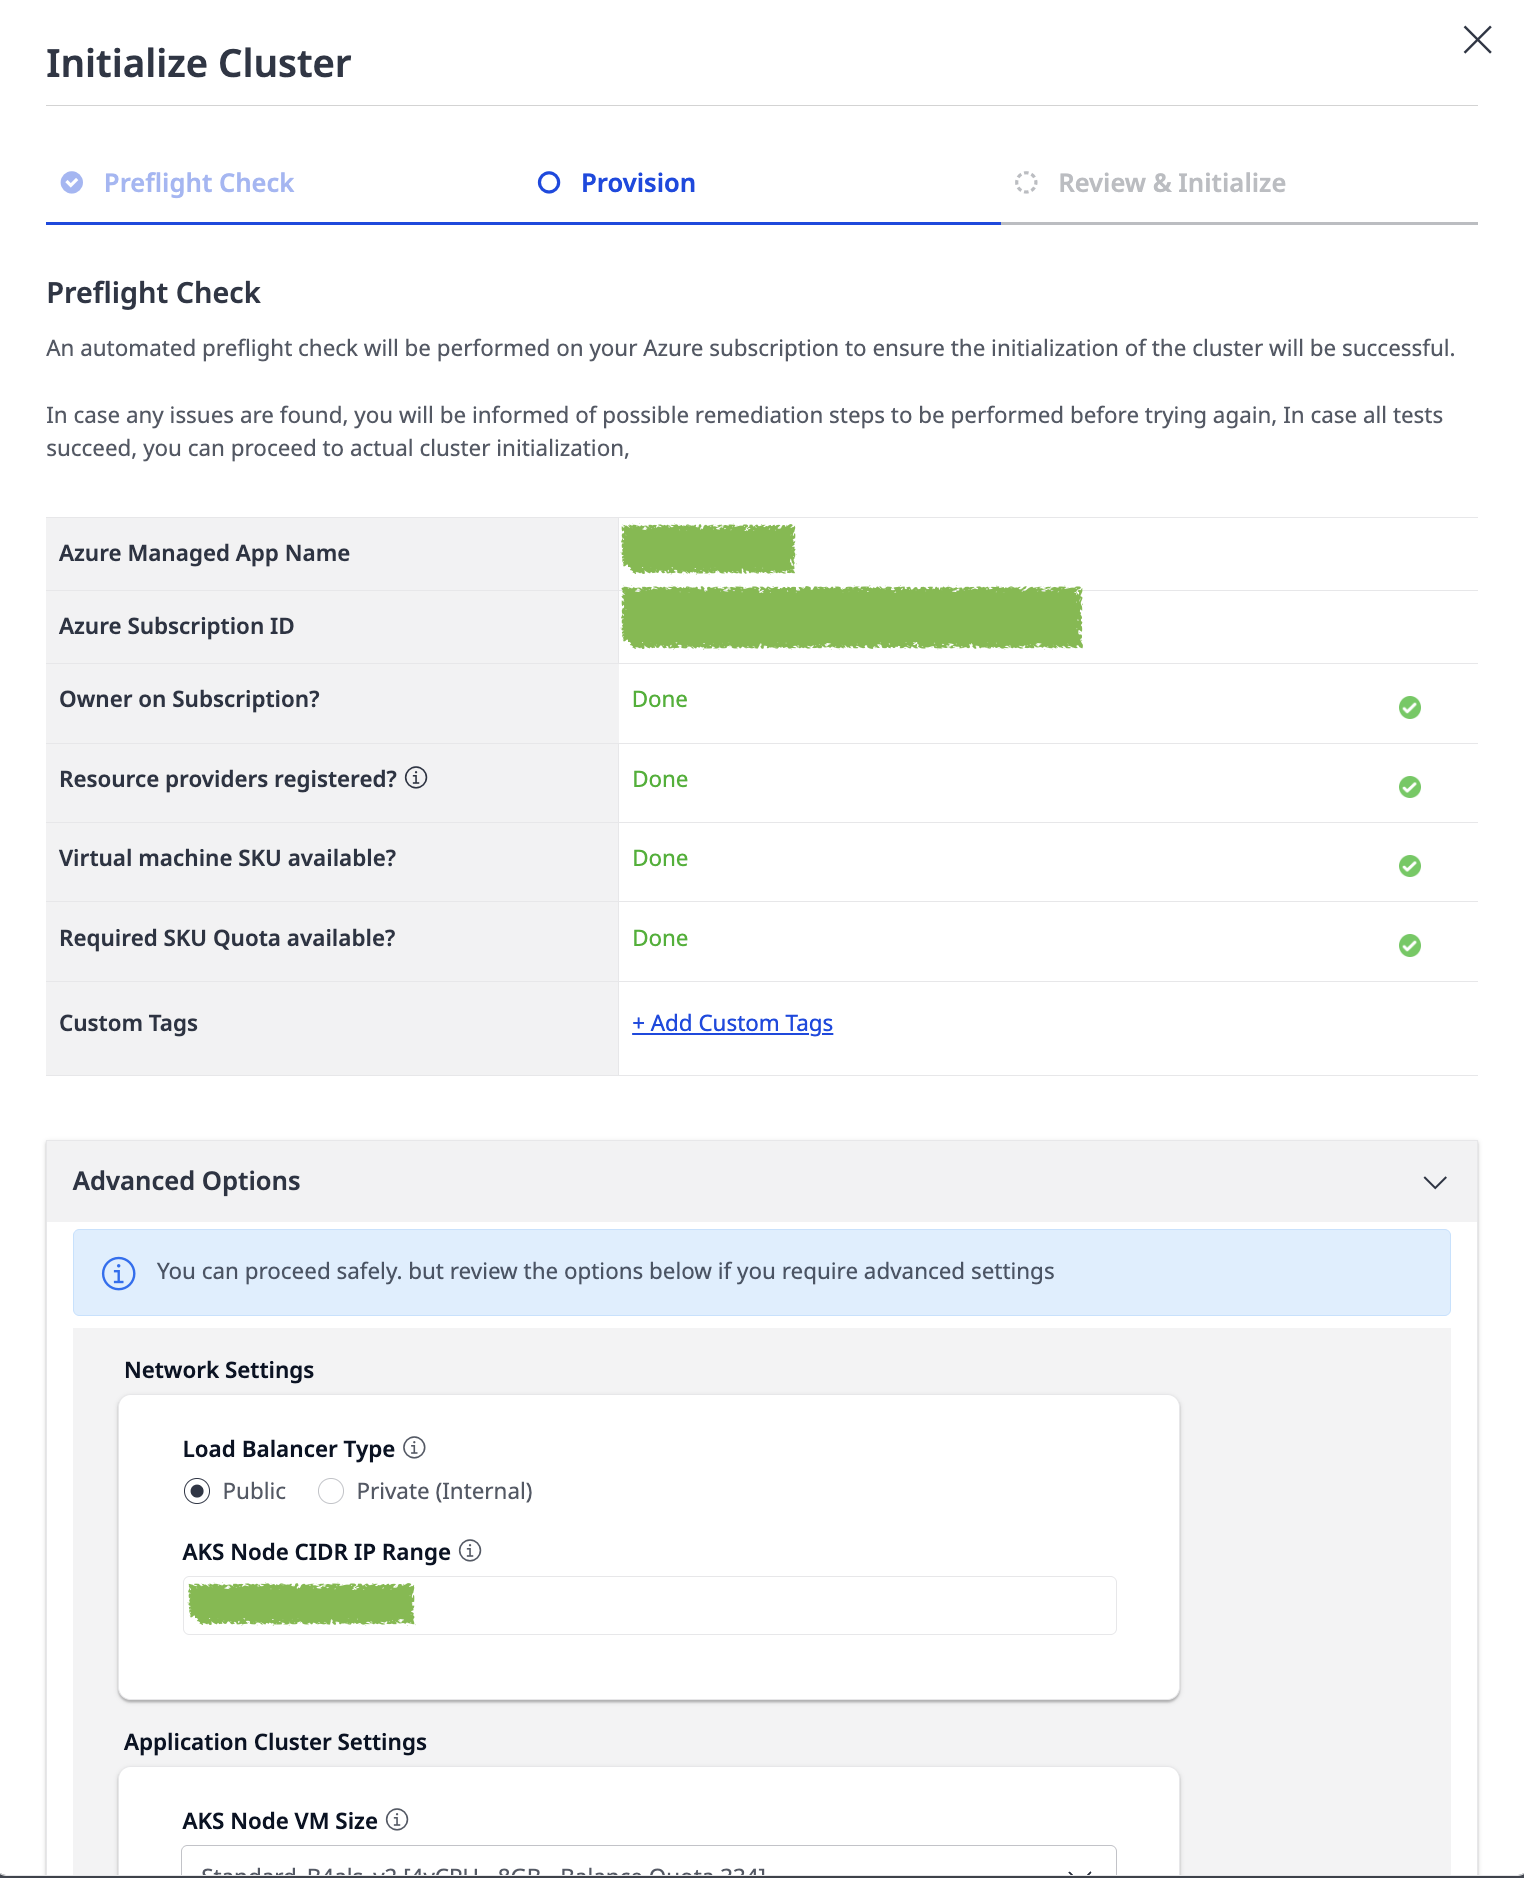
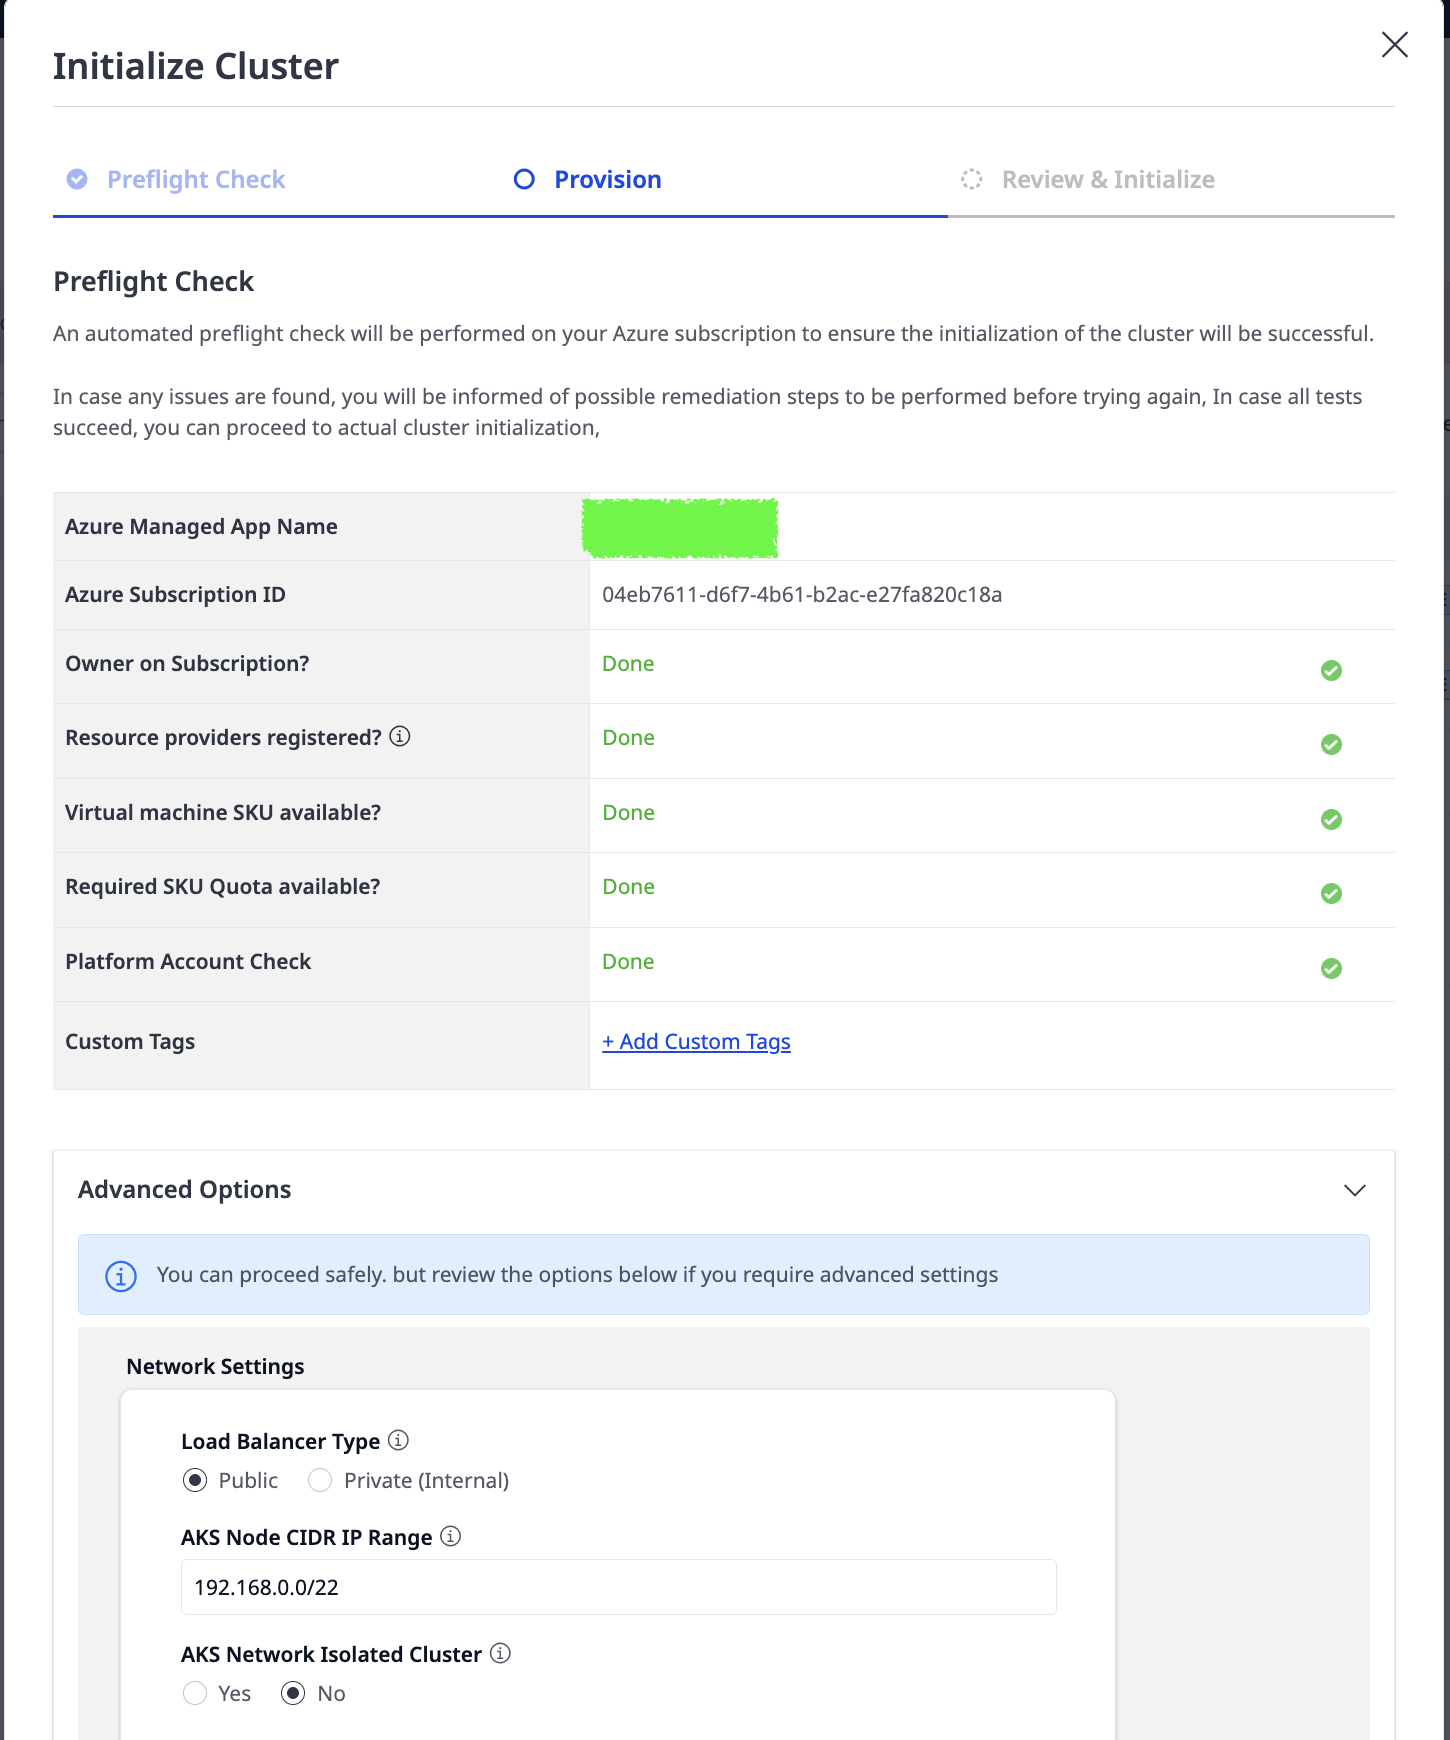
Updated few screenshots and some texts in Initialize cluster screen

diff --git a/content/en/docs/deployment/mx-azure/mx-azure-installation.md b/content/en/docs/deployment/mx-azure/mx-azure-installation.md
@@ -63,19 +63,21 @@ To create a cluster for your Mendix on Azure app, perform the following steps:
 
     {{< figure src="/attachments/deployment/mx-azure/preflight-check-successful.png" class="no-border" >}}
 
+    The Platform account check is used to validate that only one platform account should be associated to the customer id.
+
 10. In the **Provision** screen, add the custom tags if required and review the information in the **Advanced Options** section. If required, adjust any settings as needed. Note that selecting higher service tiers will also incur higher costs.
    
     You can update the following advanced options:
 
     * AKS Service Tier
-    * AKS Node Size
-    * VM Type
+    * AKS Node VM Size
+    * AKS Maximum Node Count
     * Load Balancer Type
-    * Postgres Flexible Server - Under this, you can update Compute Tier, Compute Size and Storage Performance Tier.
-    * AKS Node IP Address 
-    * Managed Grafana
-    * Enable Read Replica
-
+    * AKS Node CIDR IP Range
+    * AKS Network Isolated Cluster
+    * Managed Grafana    
+    * Postgres Flexible Server - Under this, you can update Enable Read Replica,Compute Tier, Compute Size and Storage Performance Tier.
+ 
     {{% alert color="info" %}}If you plan to use [virtual network peering](#network-peering), you must set the **Load Balancer Type** to **Private (Internal)**.{{% /alert %}}
 
     {{% alert color="info" %}}If **Managed Grafana** is set to **False**, private access to a Grafana dashboard is required. Make sure that the required network is set up to accomodate private access.{{% /alert %}}

diff --git a/content/en/docs/releasenotes/deployment/mendix-azure.md b/content/en/docs/releasenotes/deployment/mendix-azure.md
@@ -21,6 +21,7 @@ For information on the current status of Mendix deployment, see [Mendix Status](
 * Mendix on Azure users can now upload and download environment backups through Mendix on Kubernetes Portal. For more information, see [Backups in Mendix on Azure](/developerportal/deploy/mendix-on-azure/backups/).
 * We have added a new feature which performs automatic nightly/weekly/monthly backups of the environment. For more information, see [Backups in Mendix on Azure](/developerportal/deploy/mendix-on-azure/backups/).
 * [Cloud tokens](/control-center/cloud-tokens//) are now required for environment creation in Mendix on Azure, after the trial is expired (120 days).
+* 
 
 ### Release date: October 16, 2025
 
